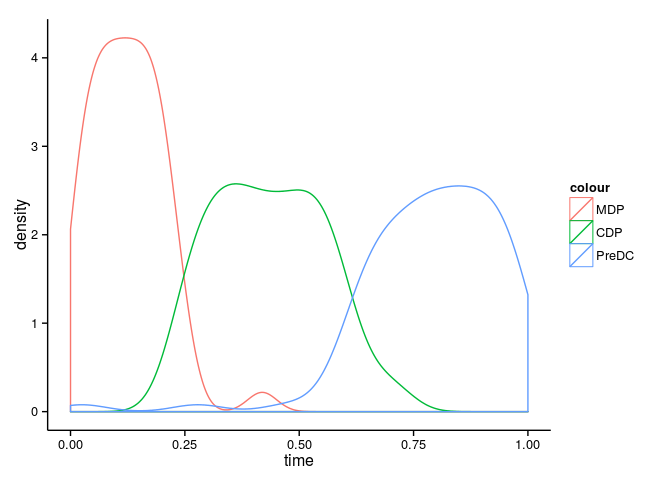
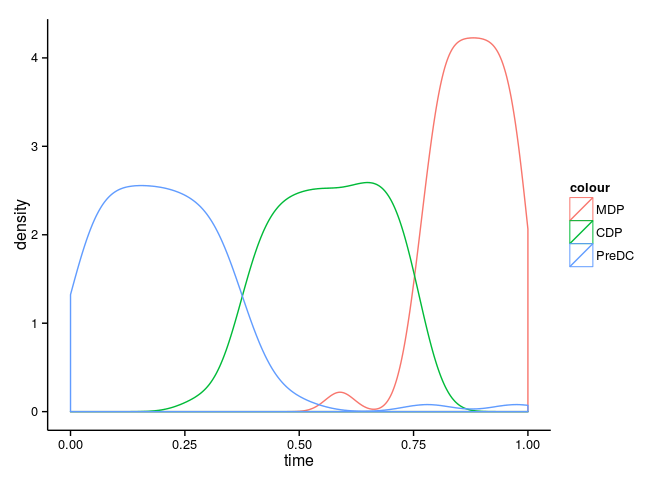
cleaned up readme a bit

diff --git a/README.md b/README.md
@@ -1,25 +1,6 @@
 ``` r
 library(SCORPIUS)
-```
-
-    ## Loading required package: DBI
-
-``` r
 library(dplyr)
-```
-
-    ## 
-    ## Attaching package: 'dplyr'
-    ## 
-    ## The following objects are masked from 'package:stats':
-    ## 
-    ##     filter, lag
-    ## 
-    ## The following objects are masked from 'package:base':
-    ## 
-    ##     intersect, setdiff, setequal, union
-
-``` r
 library(tidyr)
 ```
 
@@ -70,111 +51,10 @@ We construct a vector of the progression of cells as integers and as factors
 
 ``` r
 progression <- sample.info %>% left_join(celltypes, by=colnames(celltypes)[-ncol(celltypes)]) %>% .$i
-progression
-```
 
-    ##   [1] 2 2 2 2 2 2 2 2 2 2 2 2 2 2 2 2 2 2 2 2 2 2 2 2 2 2 2 2 2 2 2 2 2 2 2
-    ##  [36] 2 2 2 2 2 2 2 2 2 2 2 2 2 2 2 2 2 2 2 2 2 2 2 2 2 2 2 2 2 2 2 2 2 2 2
-    ##  [71] 2 2 2 2 2 2 2 2 2 2 2 2 2 2 2 2 2 2 2 2 2 2 2 2 2 3 3 3 3 3 3 3 3 3 3
-    ## [106] 3 3 3 3 3 3 3 3 3 3 3 3 3 3 3 3 3 3 3 3 3 3 3 3 3 3 3 3 3 3 3 3 3 3 3
-    ## [141] 3 3 3 3 3 3 3 3 3 3 3 3 3 3 3 3 3 3 3 3 3 3 3 3 3 3 3 3 3 3 3 3 3 3 3
-    ## [176] 3 3 3 3 3 3 3 3 3 3 3 3 3 3 3 3 1 1 1 1 1 1 1 1 1 1 1 1 1 1 1 1 1 1 1
-    ## [211] 1 1 1 1 1 1 1 1 1 1 1 1 1 1 1 1 1 1 1 1 1 1 1 1 1 1 1 1 1 1 1 1 1 1 1
-    ## [246] 1 1 1
-
-``` r
 levels <- celltypes %>% select(-i) %>% apply(1, paste, collapse="_")
 progression.str <- factor(sample.info[,colnames(celltypes)[-ncol(celltypes)],drop=F] %>% apply(1, paste, collapse="_"), levels)
-progression.str
-```
 
-    ## SRR1558744 SRR1558745 SRR1558746 SRR1558747 SRR1558748 SRR1558749 
-    ##        CDP        CDP        CDP        CDP        CDP        CDP 
-    ## SRR1558750 SRR1558751 SRR1558752 SRR1558753 SRR1558754 SRR1558755 
-    ##        CDP        CDP        CDP        CDP        CDP        CDP 
-    ## SRR1558756 SRR1558757 SRR1558758 SRR1558759 SRR1558760 SRR1558761 
-    ##        CDP        CDP        CDP        CDP        CDP        CDP 
-    ## SRR1558762 SRR1558763 SRR1558764 SRR1558765 SRR1558766 SRR1558767 
-    ##        CDP        CDP        CDP        CDP        CDP        CDP 
-    ## SRR1558768 SRR1558769 SRR1558770 SRR1558771 SRR1558772 SRR1558773 
-    ##        CDP        CDP        CDP        CDP        CDP        CDP 
-    ## SRR1558774 SRR1558775 SRR1558776 SRR1558777 SRR1558778 SRR1558779 
-    ##        CDP        CDP        CDP        CDP        CDP        CDP 
-    ## SRR1558780 SRR1558781 SRR1558782 SRR1558783 SRR1558784 SRR1558785 
-    ##        CDP        CDP        CDP        CDP        CDP        CDP 
-    ## SRR1558786 SRR1558787 SRR1558788 SRR1558790 SRR1558791 SRR1558792 
-    ##        CDP        CDP        CDP        CDP        CDP        CDP 
-    ## SRR1558793 SRR1558794 SRR1558795 SRR1558796 SRR1558797 SRR1558798 
-    ##        CDP        CDP        CDP        CDP        CDP        CDP 
-    ## SRR1558799 SRR1558800 SRR1558801 SRR1558802 SRR1558803 SRR1558804 
-    ##        CDP        CDP        CDP        CDP        CDP        CDP 
-    ## SRR1558805 SRR1558806 SRR1558807 SRR1558808 SRR1558809 SRR1558810 
-    ##        CDP        CDP        CDP        CDP        CDP        CDP 
-    ## SRR1558811 SRR1558812 SRR1558813 SRR1558814 SRR1558815 SRR1558816 
-    ##        CDP        CDP        CDP        CDP        CDP        CDP 
-    ## SRR1558817 SRR1558818 SRR1558819 SRR1558820 SRR1558821 SRR1558822 
-    ##        CDP        CDP        CDP        CDP        CDP        CDP 
-    ## SRR1558823 SRR1558824 SRR1558825 SRR1558826 SRR1558827 SRR1558828 
-    ##        CDP        CDP        CDP        CDP        CDP        CDP 
-    ## SRR1558829 SRR1558830 SRR1558831 SRR1558832 SRR1558833 SRR1558834 
-    ##        CDP        CDP        CDP        CDP        CDP        CDP 
-    ## SRR1558835 SRR1558836 SRR1558837 SRR1558838 SRR1558839 SRR1558840 
-    ##        CDP        CDP        CDP        CDP        CDP      PreDC 
-    ## SRR1558841 SRR1558842 SRR1558843 SRR1558844 SRR1558845 SRR1558846 
-    ##      PreDC      PreDC      PreDC      PreDC      PreDC      PreDC 
-    ## SRR1558847 SRR1558848 SRR1558849 SRR1558850 SRR1558851 SRR1558852 
-    ##      PreDC      PreDC      PreDC      PreDC      PreDC      PreDC 
-    ## SRR1558853 SRR1558854 SRR1558855 SRR1558856 SRR1558857 SRR1558858 
-    ##      PreDC      PreDC      PreDC      PreDC      PreDC      PreDC 
-    ## SRR1558859 SRR1558860 SRR1558861 SRR1558862 SRR1558863 SRR1558864 
-    ##      PreDC      PreDC      PreDC      PreDC      PreDC      PreDC 
-    ## SRR1558865 SRR1558866 SRR1558867 SRR1558868 SRR1558869 SRR1558870 
-    ##      PreDC      PreDC      PreDC      PreDC      PreDC      PreDC 
-    ## SRR1558871 SRR1558872 SRR1558873 SRR1558874 SRR1558875 SRR1558876 
-    ##      PreDC      PreDC      PreDC      PreDC      PreDC      PreDC 
-    ## SRR1558877 SRR1558878 SRR1558879 SRR1558880 SRR1558881 SRR1558882 
-    ##      PreDC      PreDC      PreDC      PreDC      PreDC      PreDC 
-    ## SRR1558883 SRR1558884 SRR1558885 SRR1558886 SRR1558887 SRR1558888 
-    ##      PreDC      PreDC      PreDC      PreDC      PreDC      PreDC 
-    ## SRR1558889 SRR1558890 SRR1558891 SRR1558892 SRR1558893 SRR1558894 
-    ##      PreDC      PreDC      PreDC      PreDC      PreDC      PreDC 
-    ## SRR1558895 SRR1558896 SRR1558897 SRR1558898 SRR1558899 SRR1558900 
-    ##      PreDC      PreDC      PreDC      PreDC      PreDC      PreDC 
-    ## SRR1558901 SRR1558902 SRR1558903 SRR1558904 SRR1558905 SRR1558906 
-    ##      PreDC      PreDC      PreDC      PreDC      PreDC      PreDC 
-    ## SRR1558907 SRR1558908 SRR1558909 SRR1558910 SRR1558911 SRR1558912 
-    ##      PreDC      PreDC      PreDC      PreDC      PreDC      PreDC 
-    ## SRR1558913 SRR1558914 SRR1558915 SRR1558916 SRR1558917 SRR1558918 
-    ##      PreDC      PreDC      PreDC      PreDC      PreDC      PreDC 
-    ## SRR1558919 SRR1558920 SRR1558921 SRR1558922 SRR1558923 SRR1558924 
-    ##      PreDC      PreDC      PreDC      PreDC      PreDC      PreDC 
-    ## SRR1558925 SRR1558926 SRR1558927 SRR1558928 SRR1558929 SRR1558930 
-    ##      PreDC      PreDC      PreDC      PreDC      PreDC      PreDC 
-    ## SRR1558931 SRR1558932 SRR1558933 SRR1558934 SRR1558935 SRR1558936 
-    ##      PreDC      PreDC      PreDC      PreDC      PreDC        MDP 
-    ## SRR1558937 SRR1558938 SRR1558939 SRR1558940 SRR1558941 SRR1558942 
-    ##        MDP        MDP        MDP        MDP        MDP        MDP 
-    ## SRR1558943 SRR1558944 SRR1558945 SRR1558946 SRR1558947 SRR1558948 
-    ##        MDP        MDP        MDP        MDP        MDP        MDP 
-    ## SRR1558949 SRR1558950 SRR1558951 SRR1558952 SRR1558953 SRR1558954 
-    ##        MDP        MDP        MDP        MDP        MDP        MDP 
-    ## SRR1558955 SRR1558956 SRR1558957 SRR1558958 SRR1558959 SRR1558960 
-    ##        MDP        MDP        MDP        MDP        MDP        MDP 
-    ## SRR1558961 SRR1558962 SRR1558963 SRR1558964 SRR1558965 SRR1558966 
-    ##        MDP        MDP        MDP        MDP        MDP        MDP 
-    ## SRR1558967 SRR1558968 SRR1558969 SRR1558970 SRR1558971 SRR1558972 
-    ##        MDP        MDP        MDP        MDP        MDP        MDP 
-    ## SRR1558973 SRR1558974 SRR1558975 SRR1558976 SRR1558977 SRR1558978 
-    ##        MDP        MDP        MDP        MDP        MDP        MDP 
-    ## SRR1558979 SRR1558980 SRR1558981 SRR1558983 SRR1558984 SRR1558985 
-    ##        MDP        MDP        MDP        MDP        MDP        MDP 
-    ## SRR1558987 SRR1558988 SRR1558989 SRR1558990 SRR1558991 SRR1558992 
-    ##        MDP        MDP        MDP        MDP        MDP        MDP 
-    ## SRR1558993 SRR1558994 
-    ##        MDP        MDP 
-    ## Levels: MDP CDP PreDC
-
-``` r
 names(progression.str) <- names(progression) <- rownames(counts)
 ```
 
@@ -242,11 +122,11 @@ plot.dimensionality.reduction(space, contour=T)
 Infer trajectory
 
 ``` r
-trajectory <- infer.trajectory(space, k=5)
+trajectory <- infer.trajectory(space, k=4)
 evaluate.trajectory(trajectory$time, progression)
 ```
 
-    ## [1] 0.9573506
+    ## [1] 0.9589824
 
 Different plotting options
 
@@ -289,26 +169,26 @@ head(tags$p.values, 20)
 ```
 
     ##             gene      p.value      q.value is.tag           category
-    ## 1            Mpo 1.309449e-84 2.062644e-80   TRUE         p <= 1e-40
-    ## 2           Cd74 1.044825e-58 5.486026e-55   TRUE         p <= 1e-40
-    ## 3          H2-Aa 7.651678e-59 5.486026e-55   TRUE         p <= 1e-40
-    ## 4          Prtn3 7.242680e-57 2.852167e-53   TRUE         p <= 1e-40
-    ## 5         H2-Ab1 8.936230e-51 2.815270e-47   TRUE         p <= 1e-40
-    ## 6           Ctsg 3.502673e-49 9.195683e-46   TRUE         p <= 1e-40
-    ## 7         H2-Eb1 3.986941e-47 8.971757e-44   TRUE         p <= 1e-40
-    ## 8            Cd7 2.642793e-44 5.203659e-41   TRUE         p <= 1e-40
-    ## 9       AK152437 1.203985e-41 2.107242e-38   TRUE 1e-40 < p <= 1e-20
-    ## 10          Cd93 4.207735e-41 6.628024e-38   TRUE 1e-40 < p <= 1e-20
-    ## 11          Cd34 2.515557e-40 3.602278e-37   TRUE 1e-40 < p <= 1e-20
-    ## 12         Plbd1 3.111277e-38 4.084070e-35   TRUE 1e-40 < p <= 1e-20
-    ## 13        Igfbp4 3.050987e-36 3.696858e-33   TRUE 1e-40 < p <= 1e-20
-    ## 14          Cst7 1.760455e-35 1.980764e-32   TRUE 1e-40 < p <= 1e-20
-    ## 15         Tubb5 3.168550e-35 3.327400e-32   TRUE 1e-40 < p <= 1e-20
-    ## 16         Top2a 1.110690e-34 1.093474e-31   TRUE 1e-40 < p <= 1e-20
-    ## 17       Siglech 2.215512e-34 2.052867e-31   TRUE 1e-40 < p <= 1e-20
-    ## 18          Actb 5.011950e-34 4.386014e-31   TRUE 1e-40 < p <= 1e-20
-    ## 19 2810417H13Rik 1.878208e-33 1.557133e-30   TRUE 1e-40 < p <= 1e-20
-    ## 20           Myb 2.824244e-33 2.224375e-30   TRUE 1e-40 < p <= 1e-20
+    ## 1            Mpo 5.477392e-82 8.627988e-78   TRUE         p <= 1e-40
+    ## 2          Prtn3 7.036260e-72 5.541758e-68   TRUE         p <= 1e-40
+    ## 3          H2-Aa 1.483380e-59 7.788732e-56   TRUE         p <= 1e-40
+    ## 4           Cd74 1.288486e-55 5.074059e-52   TRUE         p <= 1e-40
+    ## 5            Cd7 3.088776e-49 6.950629e-46   TRUE         p <= 1e-40
+    ## 6           Ctsg 2.790387e-49 6.950629e-46   TRUE         p <= 1e-40
+    ## 7         H2-Ab1 2.927322e-49 6.950629e-46   TRUE         p <= 1e-40
+    ## 8           Cd34 2.174884e-44 4.282347e-41   TRUE         p <= 1e-40
+    ## 9         H2-Eb1 2.672143e-43 4.676844e-40   TRUE 1e-40 < p <= 1e-20
+    ## 10          Ly6d 2.843103e-42 4.478455e-39   TRUE 1e-40 < p <= 1e-20
+    ## 11      AK152437 4.747042e-38 6.231284e-35   TRUE 1e-40 < p <= 1e-20
+    ## 12          Cd93 4.516503e-38 6.231284e-35   TRUE 1e-40 < p <= 1e-20
+    ## 13 2810417H13Rik 1.412088e-37 1.711017e-34   TRUE 1e-40 < p <= 1e-20
+    ## 14         Top2a 3.300674e-37 3.713730e-34   TRUE 1e-40 < p <= 1e-20
+    ## 15        Igfbp4 8.279744e-36 8.694835e-33   TRUE 1e-40 < p <= 1e-20
+    ## 16          Cst7 7.813861e-35 7.692747e-32   TRUE 1e-40 < p <= 1e-20
+    ## 17       Siglech 1.492379e-34 1.382821e-31   TRUE 1e-40 < p <= 1e-20
+    ## 18         Plbd1 5.088580e-34 4.453073e-31   TRUE 1e-40 < p <= 1e-20
+    ## 19         Stmn1 2.631893e-33 2.181978e-30   TRUE 1e-40 < p <= 1e-20
+    ## 20         Tubb5 7.878000e-33 6.204713e-30   TRUE 1e-40 < p <= 1e-20
 
 Group genes into modules
 
